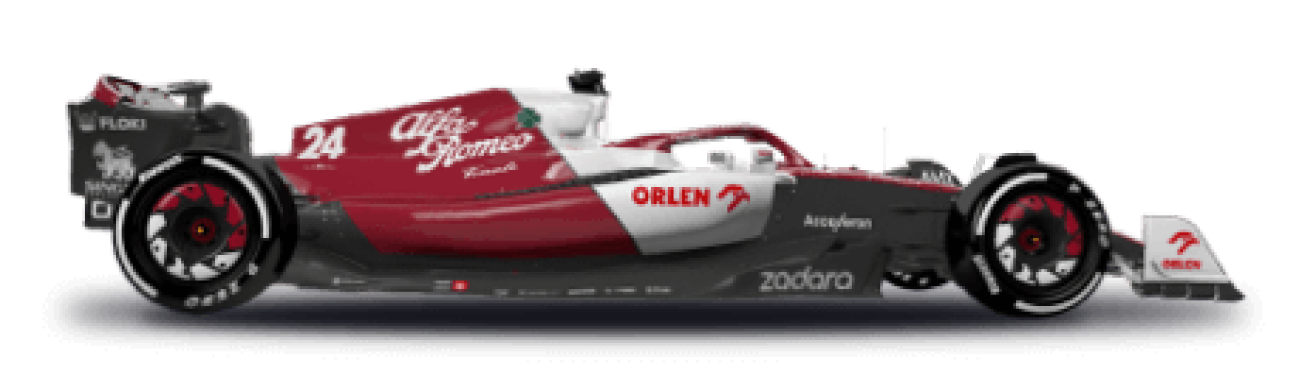
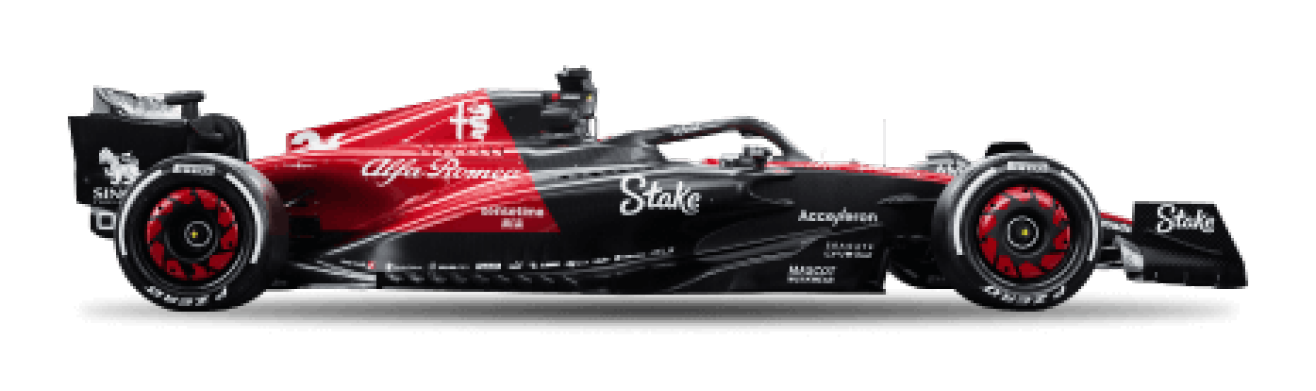
Actualisation Chiffres et img car

diff --git a/constructeurs/williams.html b/constructeurs/williams.html
@@ -22,8 +22,8 @@
         <link rel="shortcut icon" href="/img/logos/favicon.png" type="icon">
  
     
-        <script type="text/javascript" src="/js/navbar.js" async></script>
-        <script type="text/javascript" src="/js/raceCount.js" async></script>
+        <script type="text/javascript" src="/js/navbar.js"></script>
+        <script type="text/javascript" src="/js/raceCount.js"></script>
     </head>
 
 <body>
@@ -73,7 +73,7 @@
                 <h2>Informations</h2>
                 <ul>
                     <li><p>Localisation</p><p>Brackley</p></li>
-                    <li><p>Directeur</p><p>Non défini</p></li>
+                    <li><p>Directeur</p><p>James Vowles</p></li>
                     <li><p>Nombre de courses</p><p id="racecount"></p></li>
                     <li><p>Nombre de pole</p><p>128</p></li>
                     <li><p>Nombre de podiums</p><p>313</p></li>
@@ -91,7 +91,7 @@
             <div class="third-third-pilote">
                 <h2>Châssis & Moteur</h2>
                 <ul>
-                    <li><p>Williams FW44</p></li>
+                    <li><p>Williams FW45</p></li>
                     <li><p>Mercedes M13 E Performance</p></li>
                 </ul>
             </div>

diff --git a/constructeurs/ferrari.html b/constructeurs/ferrari.html
@@ -73,7 +73,7 @@
                 <h2>Informations</h2>
                 <ul>
                     <li><p>Localisation</p><p>Maranello</p></li>
-                    <li><p>Team Manager</p><p>Frédéric Vasseur</p></li>
+                    <li><p>Team Manager</p><p>Fred Vasseur</p></li>
                     <li><p>Nombre de courses</p><p id="racecount"></p></li>
                     <li><p>Nombre de pole</p><p>242</p></li>
                     <li><p>Nombre de podiums</p><p>798</p></li>
@@ -91,7 +91,7 @@
             <div class="third-third-pilote">
                 <h2>Châssis & Moteur</h2>
                 <ul>
-                    <li><p>Ferrari F1-75</p></li>
+                    <li><p>Ferrari SF-23</p></li>
                     <li><p>Ferrari Tipo 066/7</p></li>
                 </ul>
             </div>

diff --git a/constructeurs/mclaren.html b/constructeurs/mclaren.html
@@ -73,7 +73,7 @@
                 <h2>Informations</h2>
                 <ul>
                     <li><p>Localisation</p><p>Surrey</p></li>
-                    <li><p>Directeur</p><p>Andre Stella</p></li>
+                    <li><p>Directeur</p><p>Andrea Stella</p></li>
                     <li><p>Nombre de courses</p><p id="racecount"></p></li>
                     <li><p>Nombre de pole</p><p>156</p></li>
                     <li><p>Nombre de podiums</p><p>494</p></li>
@@ -91,7 +91,7 @@
             <div class="third-third-pilote">
                 <h2>Châssis & Moteur</h2>
                 <ul>
-                    <li><p>McLaren MCL36</p></li>
+                    <li><p>McLaren MCL60</p></li>
                     <li><p>Mercedes M13 E Performance</p></li>
                 </ul>
             </div>

diff --git a/constructeurs/alfa.html b/constructeurs/alfa.html
@@ -73,7 +73,7 @@
                 <h2>Informations</h2>
                 <ul>
                     <li><p>Localisation</p><p>Hinwill</p></li>
-                    <li><p>CEO</p><p>Andreas Seidl</p></li>
+                    <li><p>CEO</p><p>Alunni bravi</p></li>
                     <li><p>Nombre de courses</p><p id="racecount"></p></li>
                     <li><p>Nombre de pole</p><p>12</p></li>
                     <li><p>Nombre de podiums</p><p>26</p></li>
@@ -91,7 +91,7 @@
             <div class="third-third-pilote">
                 <h2>Châssis & Moteur</h2>
                 <ul>
-                    <li><p>Alfa Romeo C42</p></li>
+                    <li><p>Alfa Romeo C43</p></li>
                     <li><p>Ferrari Tipo 066/7</p></li>
                 </ul>
             </div>

diff --git a/constructeurs/mercedes.html b/constructeurs/mercedes.html
@@ -91,7 +91,7 @@
             <div class="third-third-pilote">
                 <h2>Châssis & Moteur</h2>
                 <ul>
-                    <li><p>Mercedes-AMG F1 W13 E Performance</p></li>
+                    <li><p>Mercedes-AMG F1 W14 E Performance</p></li>
                     <li><p>Mercedes M13 E Performance</p></li>
                 </ul>
             </div>

diff --git a/constructeurs/aston_martin.html b/constructeurs/aston_martin.html
@@ -91,7 +91,7 @@
             <div class="third-third-pilote">
                 <h2>Châssis & Moteur</h2>
                 <ul>
-                    <li><p>Aston Martin AMR 22</p></li>
+                    <li><p>Aston Martin AMR 23</p></li>
                     <li><p>Mercedes M13 E Performance</p></li>
                 </ul>
             </div>

diff --git a/constructeurs/alphatauri.html b/constructeurs/alphatauri.html
@@ -91,7 +91,7 @@
             <div class="third-third-pilote">
                 <h2>Châssis & Moteur</h2>
                 <ul>
-                    <li><p>AlphaTauri AT03</p></li>
+                    <li><p>AlphaTauri AT04</p></li>
                     <li><p>Red Bull RBPTH001</p></li>
                 </ul>
             </div>

diff --git a/constructeurs/red_bull.html b/constructeurs/red_bull.html
@@ -91,7 +91,7 @@
             <div class="third-third-pilote">
                 <h2>Châssis & Moteur</h2>
                 <ul>
-                    <li><p>Red Bull RB18</p></li>
+                    <li><p>Red Bull RB19</p></li>
                     <li><p>Red Bull RBPTH001</p></li>
                 </ul>
             </div>

diff --git a/constructeurs/alpine.html b/constructeurs/alpine.html
@@ -91,7 +91,7 @@
             <div class="third-third-pilote">
                 <h2>Châssis & Moteur</h2>
                 <ul>
-                    <li><p>Alpine A522</p></li>
+                    <li><p>Alpine A523</p></li>
                     <li><p>Renault E-Tech RE22</p></li>
                 </ul>
             </div>

diff --git a/constructeurs/haas.html b/constructeurs/haas.html
@@ -91,7 +91,7 @@
             <div class="third-third-pilote">
                 <h2>Châssis & Moteur</h2>
                 <ul>
-                    <li><p>Haas VF-22</p></li>
+                    <li><p>Haas VF-23</p></li>
                     <li><p>Ferrari Tipo 066/7</p></li>
                 </ul>
             </div>
